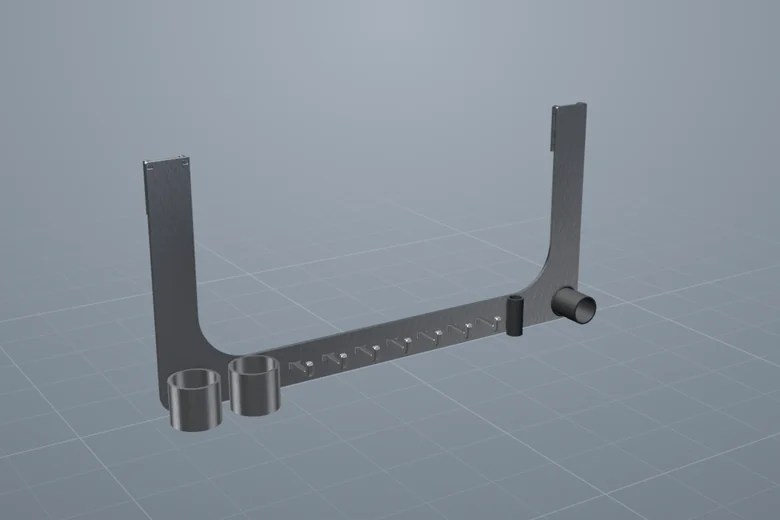
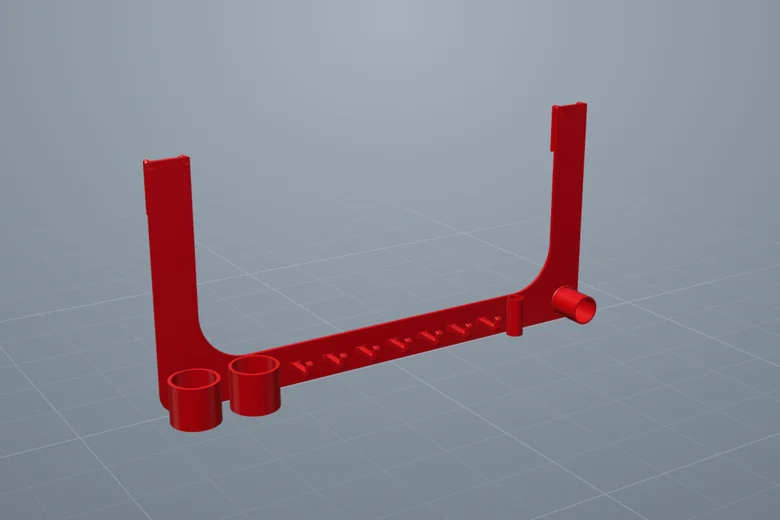
Rack à outils 15083000 : peint en rouge Machines Roger (demande du client), fiche, vignette et README mis à jour
Claude-Session: https://claude.ai/code/session_015N4WsqjFK2wipYmnm7iNGM

Changed region(s): [[0.1846, 0.1846, 0.7692, 0.8308]]

diff --git a/src/models/rack-outil/index.js b/src/models/rack-outil/index.js
@@ -141,8 +141,9 @@ function accroche(S, material) {
 
 export function P01(api) {
   const S = api.S;
-  // Acier nu : le plan ne donne pas de couleur de surface. Les « tuyaux noirs » sont plus sombres.
-  const TOLE = 'steel', NOIR = 'castIron';
+  // Peinture : tout le rack en rouge Machines Roger (demande du client ; le plan ne donne pas de
+  // couleur de surface). Les « tuyaux noirs » de la nomenclature sont peints comme le reste.
+  const TOLE = 'red', NOIR = 'red';
   const seen = new Set();
   const put = (ref, obj, explode) => {
     api.part(ref, obj, explode, { noLabel: seen.has(ref) });

diff --git a/README.md b/README.md
@@ -129,7 +129,8 @@ pièces (numéro, quantité, page du manuel).
   plan sont reprises telles quelles ; ce qu'il ne cote pas (plaque de 3/16 po,
   montants de 2 1/2 po, rayons, diamètre et hauteur des tubes ronds, profil
   des crochets) est relevé à l'échelle sur les tracés vectoriels du PDF.
-  Montré en acier nu (le plan ne précise pas de couleur). Contrôle chiffré :
+  Peint en rouge Machines Roger (demande du client ; le plan ne précise pas
+  de couleur). Contrôle chiffré :
   `node scripts/check-rack-outil.mjs` compare 38 mesures du modèle aux cotes
   du plan, dont la masse d'acier (11,07 lb pour 11,2 lb au cartouche).
   `S.extrude` accepte maintenant des découpes en polygone (fentes de tenon).
